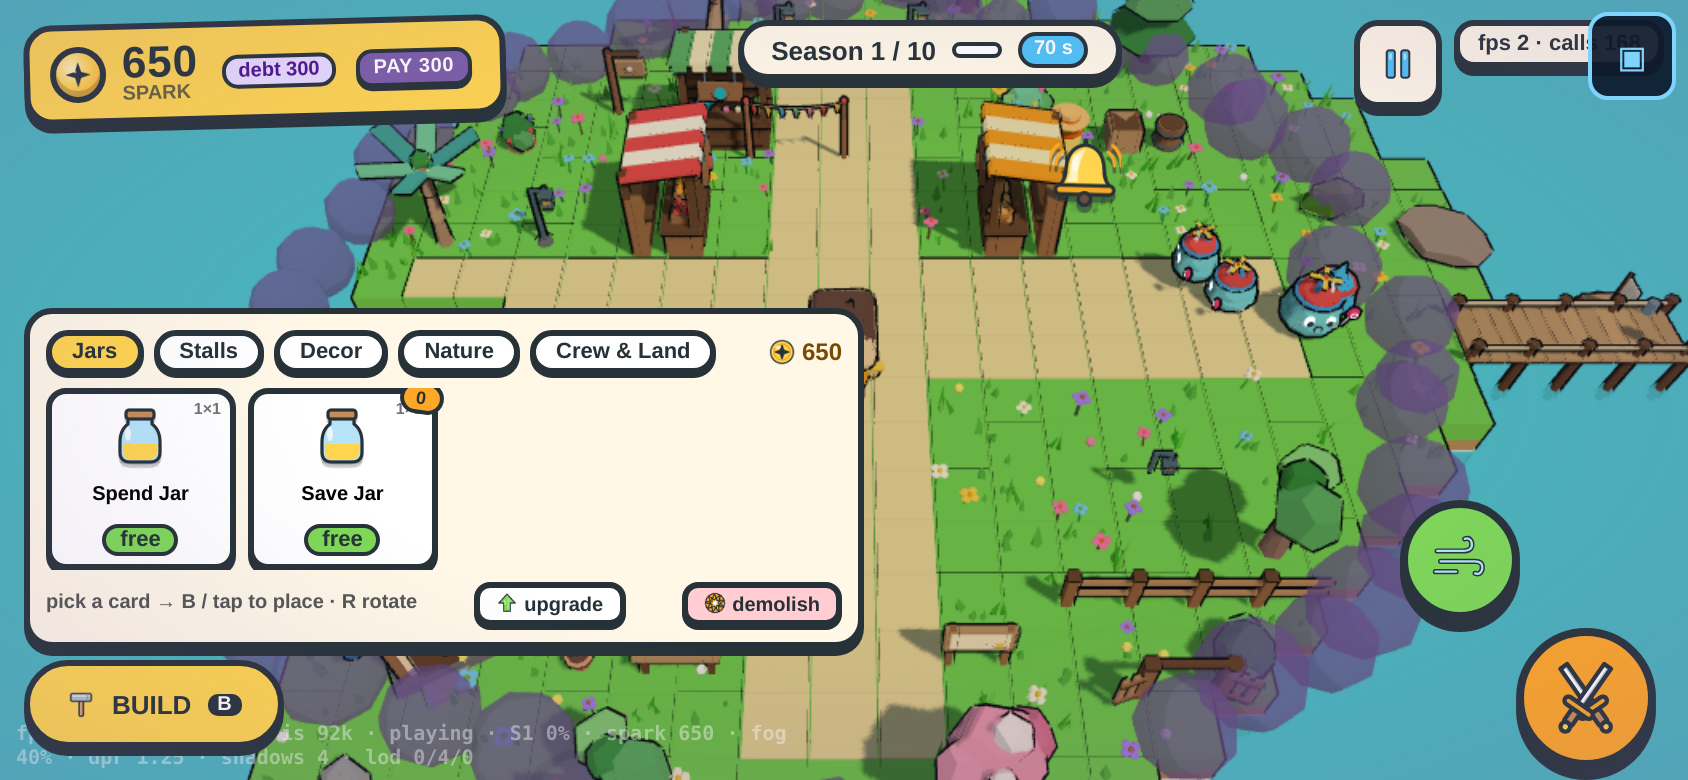
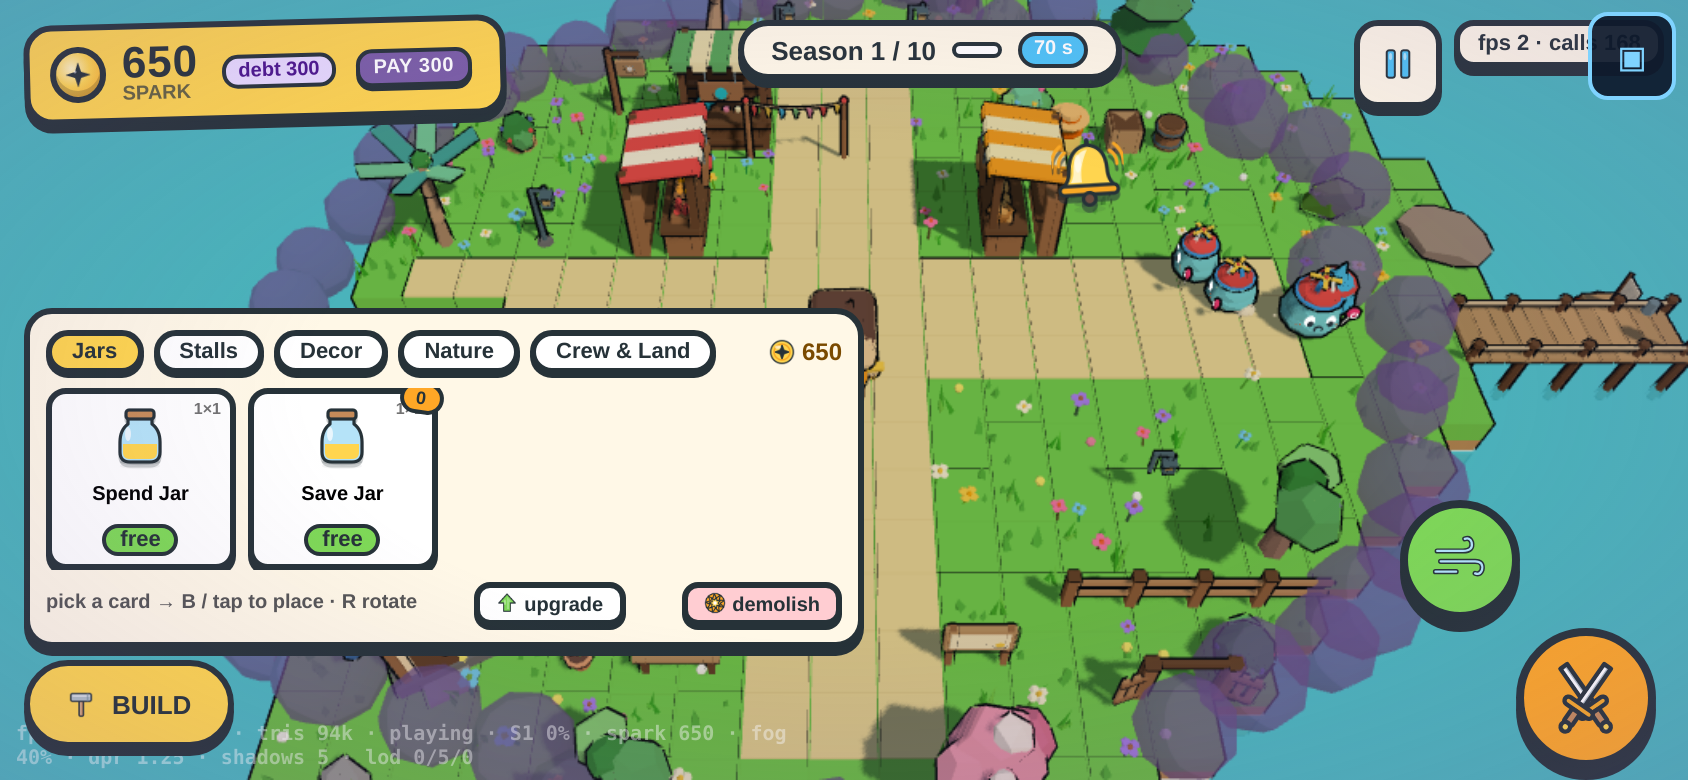
WIP S62: GAME_VERSION S62, README row, HANDOFF S62-A..D, desktop rig play_s62c

diff --git a/LUMEN/game/src/Game.js b/LUMEN/game/src/Game.js
@@ -769,7 +769,7 @@ function reseatHelpers(sb) {
 //   eco:win / eco:lose     → ending (8B finale lines) → story:finale → endless | title
 //   ui:pause {on, by}      pause reasons are OR-ed (menu ∨ dialogue ∨ ledger ∨ title) into game.paused — the only place that touches it.
 // Nothing here edits a system; it only constructs, routes and owns `lg.state`.
-export const GAME_VERSION = 'S61';   // S61 (2026-11-07): Move-step joystick demo fits very small phones (<= 360 px tall, no overlap with the card; cloud badge on <= 300 px), locate('ahead') reads screen-up from the camera (src/systems/aheadPoint.js, rotation-safe), notch-safe left offsets in tutor.css (S61-A/B/E). Previous: S60 (2026-11-07): Move card = drawn JOYSTICK demo on touch (cloud hand drags a simulated stick) / WASD keycaps + hand 6 u ahead on desktop (S60-A); the hand follows moving things LIVE and never points at a stale / invisible Stranger spot (S60-B); Owl opening split into 2 short bubbles (S60-C). Previous: S59 (2026-11-07): cloud tutor (Cloud says hello, drawn face_cloud), persistent blue cards + cloud hand pointer, drawn SKIP, jar reminder (jarRemind.js), storm chip icon (stormmark). Previous: S57 (2026-11-07): FUN_PASS T4 — friendly Stranger species (makeStranger, not Collector-shaped) walks in from the pier, strolls the plaza 25-40 s with a bell marker + edge arrow (ui/stranger.js), a sword never resolves them (whiff + owl 'Not an enemy. Talk to them.'), seasons.json strangers marks (S1 fair, S2 scam, then 1-2 per season, >= 1 in 3 fair), FAIRS deals (eco.offerFair), timeout = no penalty/reward. Gate --strangers 5/5. Previous: S56 (2026-11-06): FUN_PASS T2b + T3 — T2b Powers answer every press (hold = guide card on touch + desktop chips, ≤ 8-word answer pill, cooldown/busy/blocked lines, 6 touch chips with 4 dim, Shield/Stomp drain bar, whenHint in data/tutor.json, gate `--powers` 5/5). T3 Crew do visible jobs — src/systems/crewJobs.js: pier walk-in ≤ 3 s, posts (Owl→Save jar, Tortoise→Protect jar, Fox→pier, Mole→stalls, Bee circles busiest stall, Snail wanders + flowers) that need no stall, idle-work loop, payoff pops (+N / −N / +10% / 🛡 N / ! / 🌱) carrying the real numbers, Ledger Crew line, BFS paths, 1 InstancedMesh, gate `--crew` 8/8. S54 (2026-11-06): FUN_PASS T2 Curiosity guide — curiosity.js registry + curiosityWire.js (approach / linger / tap / HOLD / HUD data-guide), queued blue cards with maxShows + doneOn, pause GUIDE codex, tutorCounts in the save. S53 (2026-11-06): FUN_PASS T1 Jars — data/jars.json + jarUnlocks.js (Spend at start · Save on first till sweep · Protect at the storm warning · Invest after the S2 Ledger), tray lists unlocked jars only (NEW tag + tab pulse), tap a far jar → Pip auto-walks + deposits 10 ✦ (hero.inputOverride, 6 s timeout, cancels on stick/pause/modal), save field jarsUnlocked (additive v4) + legacy migration, verb chain deposit step unlocks Save + 'Build the Save jar' hint, FIX CONTINUE re-registers loaded jars (build:loaded), gate `--jars1` 10/10. S52 (2026-11-05): FUN_PASS T0 Debug panel — lg.debug hooks (installDebugHooks: grant/season/day/speed/stranger/wave/event/hire/clearTutor/resetSave/state/dump, n/a stubs for T1/T4/T7), ?debug=1 → src/debug/panel.js (aside#ll-debug, window.LUMEN_DEBUG), gate `--debug` 17/17. S51 (2026-11-04): phase 48 Hush — toasts/hero bark/touch buttons/pre-placed jars/verb chip deleted, blue once-only tutor cards. S50: phase 47 Measure-fix — telemetry counts dialogue time in modalSeconds (47A, PLAY_BUGS 45B-2), PERF.md 167 calls + ≤ 180 budget (47B, 45B-3). S49 (2026-11-04): phase 46 Quiet — comfort by deletion: verb chain waits for the opening dialogue (46A, PLAY_BUGS 45B-1), ?oldtutorial overlay deleted (46B), ?sliders legacy jars flag deleted + itch/GDD jars text fixed (46C). S48 (2026-11-04): phase 45 Ship v3 closed — itch page + 6 ship shots (45A), real-browser funnel + 13 gates + PLAY_BUGS (45B), final zip + Bible S48 (45C). S47 (2026-11-03): phase 44 closed — readable market: ♥/✓/✗ price bubbles + sign tint + E-on-sign price (44A), want bubbles + noStall leave (44B), season demand HOT/COLD fair× + PREFS× + sign glyph (44C), islands = NO (44D)
+export const GAME_VERSION = 'S62';   // S62 (2026-11-07): placing ANY item (jar, decor, stall) ends the placing mode at once (S62-A, no red 'place another' ghost), tutor card lifts above the placing bar on phones + onBuildOpen card follows build:enter (S62-C), keyboard letters B/R hidden on touch (S62-D). Previous: S61 (2026-11-07): Move-step joystick demo fits very small phones (<= 360 px tall, no overlap with the card; cloud badge on <= 300 px), locate('ahead') reads screen-up from the camera (src/systems/aheadPoint.js, rotation-safe), notch-safe left offsets in tutor.css (S61-A/B/E). Previous: S60 (2026-11-07): Move card = drawn JOYSTICK demo on touch (cloud hand drags a simulated stick) / WASD keycaps + hand 6 u ahead on desktop (S60-A); the hand follows moving things LIVE and never points at a stale / invisible Stranger spot (S60-B); Owl opening split into 2 short bubbles (S60-C). Previous: S59 (2026-11-07): cloud tutor (Cloud says hello, drawn face_cloud), persistent blue cards + cloud hand pointer, drawn SKIP, jar reminder (jarRemind.js), storm chip icon (stormmark). Previous: S57 (2026-11-07): FUN_PASS T4 — friendly Stranger species (makeStranger, not Collector-shaped) walks in from the pier, strolls the plaza 25-40 s with a bell marker + edge arrow (ui/stranger.js), a sword never resolves them (whiff + owl 'Not an enemy. Talk to them.'), seasons.json strangers marks (S1 fair, S2 scam, then 1-2 per season, >= 1 in 3 fair), FAIRS deals (eco.offerFair), timeout = no penalty/reward. Gate --strangers 5/5. Previous: S56 (2026-11-06): FUN_PASS T2b + T3 — T2b Powers answer every press (hold = guide card on touch + desktop chips, ≤ 8-word answer pill, cooldown/busy/blocked lines, 6 touch chips with 4 dim, Shield/Stomp drain bar, whenHint in data/tutor.json, gate `--powers` 5/5). T3 Crew do visible jobs — src/systems/crewJobs.js: pier walk-in ≤ 3 s, posts (Owl→Save jar, Tortoise→Protect jar, Fox→pier, Mole→stalls, Bee circles busiest stall, Snail wanders + flowers) that need no stall, idle-work loop, payoff pops (+N / −N / +10% / 🛡 N / ! / 🌱) carrying the real numbers, Ledger Crew line, BFS paths, 1 InstancedMesh, gate `--crew` 8/8. S54 (2026-11-06): FUN_PASS T2 Curiosity guide — curiosity.js registry + curiosityWire.js (approach / linger / tap / HOLD / HUD data-guide), queued blue cards with maxShows + doneOn, pause GUIDE codex, tutorCounts in the save. S53 (2026-11-06): FUN_PASS T1 Jars — data/jars.json + jarUnlocks.js (Spend at start · Save on first till sweep · Protect at the storm warning · Invest after the S2 Ledger), tray lists unlocked jars only (NEW tag + tab pulse), tap a far jar → Pip auto-walks + deposits 10 ✦ (hero.inputOverride, 6 s timeout, cancels on stick/pause/modal), save field jarsUnlocked (additive v4) + legacy migration, verb chain deposit step unlocks Save + 'Build the Save jar' hint, FIX CONTINUE re-registers loaded jars (build:loaded), gate `--jars1` 10/10. S52 (2026-11-05): FUN_PASS T0 Debug panel — lg.debug hooks (installDebugHooks: grant/season/day/speed/stranger/wave/event/hire/clearTutor/resetSave/state/dump, n/a stubs for T1/T4/T7), ?debug=1 → src/debug/panel.js (aside#ll-debug, window.LUMEN_DEBUG), gate `--debug` 17/17. S51 (2026-11-04): phase 48 Hush — toasts/hero bark/touch buttons/pre-placed jars/verb chip deleted, blue once-only tutor cards. S50: phase 47 Measure-fix — telemetry counts dialogue time in modalSeconds (47A, PLAY_BUGS 45B-2), PERF.md 167 calls + ≤ 180 budget (47B, 45B-3). S49 (2026-11-04): phase 46 Quiet — comfort by deletion: verb chain waits for the opening dialogue (46A, PLAY_BUGS 45B-1), ?oldtutorial overlay deleted (46B), ?sliders legacy jars flag deleted + itch/GDD jars text fixed (46C). S48 (2026-11-04): phase 45 Ship v3 closed — itch page + 6 ship shots (45A), real-browser funnel + 13 gates + PLAY_BUGS (45B), final zip + Bible S48 (45C). S47 (2026-11-03): phase 44 closed — readable market: ♥/✓/✗ price bubbles + sign tint + E-on-sign price (44A), want bubbles + noStall leave (44B), season demand HOT/COLD fair× + PREFS× + sign glyph (44C), islands = NO (44D)
 // S46 (prev):   // S46 (2026-11-03): phase 43 closed — season scripts (data/seasons.json), 5 novelties (storm/night/baron/picky/raidDouble), rotation S7–10 + endless, NEW chip, save v3.
 // S44 (prev):   // S44 (2026-11-01): BUGFIX speed ×2/×3 + Spark Storm "stretched characters" — JellySpring fixed sub-step 1/120 s + clamp, setSquash clamped [0.3, 2.5]; tests/spring.test.mjs. Game_Bible S44.md in LUMEN_extras/
 // S43 history:   // S43 (2026-11-01): 16B P1 — src/combat/Combat.js 3-hit sword combo (slash1 forehand / slash2 backhand / slash3 spin, power 1/1/2) with input buffering + soft lock-on (≤5 u, ±70°), installCombat(sb) · check.mjs --combat. Game_Bible S43.md in LUMEN_extras/

diff --git a/LUMEN/game/docs/HANDOFF_S59.md b/LUMEN/game/docs/HANDOFF_S59.md
@@ -2,8 +2,11 @@
 Grep the ID in code comments (`S62-x`). Keep the game's drawn-icon art style (no font emoji in the game; emoji only in code comments). Phone LANDSCAPE first, desktop second.
 | ID | Ask (user, verbatim intent) | Status |
 |---|---|---|
-| S62-A | "When I place a jar, it keeps appearing that I can place another one without letting me. Make that when the player places an item, it cancels the placing mechanic." Root cause: Game.js only called `build.exit()` after a `stall_*` placement; jars (unique, so the 2nd ghost is permanently red) and decor stayed armed. | IN PROGRESS: Game.js `build:placed` handler now exits placing for ANY item (stall, jar, decor, nature). Regression gate + browser check below |
-| S62-B | Final beginner-friendly screenshot review (phone landscape 844x390 first, desktop second), analyse the screenshot. | open |
+| S62-A | "When I place a jar, it keeps appearing that I can place another one without letting me. Make that when the player places an item, it cancels the placing mechanic." Root cause: Game.js only called `build.exit()` after a `stall_*` placement; jars (unique, so the re-armed ghost was permanently red / 'blocked') and decor stayed armed. | DONE: Game.js `build:placed` handler exits placing for ANY non-silent placement. Gate `node tools/check.mjs --jars1` now 11/11 (new T1.8: jar + decor -> mode idle, no ghost, tray not placing, a 2nd confirm places nothing). Browser rig `node tools/play_s62.mjs [W H]` (844x390 + 568x320): jar and decor both end placing, 0 console errors. NOTE: stalls in the CHECK harness (`sb.keys`) behave as before; BuildSystem alone still stays in place mode (Game.js is the one that exits), see check.mjs line ~673 |
+| S62-B | Final beginner-friendly screenshot review (phone landscape 844x390 first, desktop second). | DONE for phone landscape (shots tools/shots/s62_*, s62b_*): tray Jars tab, placing bar, placed jar read clearly, no overlap with joystick/Dash/Sword, 0 emoji glyphs in tray/placing bar (regex scan), icons are drawn. Desktop 1280x720 NOT re-shot this chat (only touch changes + one desktop-neutral CSS) |
+| S62-C | Found while reviewing S62-A: the blue tutor card 'Tap a stall, then Deploy.' + Cloud sat ON TOP of the placing bar and hid 'cancel' on phones | DONE: ui/build.js toggles `body.ll-placing`, ui/tutor.css lifts `.ll-tutor` above the bar (<=460 px and <=300 px tall); data/tutor.json `onBuildOpen` also follows `build:enter` so the card leaves when the player picks an item. tests/tutor.test.mjs 12/12 |
+| S62-D | Found in review: placing bar showed 'R' and the Build button showed 'B' (keyboard letters) on touch | DONE: `.ll-keyhint` / `.ll-key` hidden under `body.is-touch` (ui/build.css); desktop keeps them. LESSON: a `// comment` appended on the same line as `const okBtn = ...` swallowed it and crashed the whole UI on load (ReferenceError) - the node gates did NOT catch it because domshim ignores nothing here but the edit was made after the last full run; ALWAYS run `node tools/check.mjs` AND one browser rig after editing ui/*.js |
+| next | Ideas / still open | (1) desktop 1280x720 re-shot of the placing bar (S62-B desktop half). (2) the '?debug=1' text bottom-left overlaps the placing bar in the rigs only (rigs use debug=1; hidden for players). (3) 'drag to move' label stays visible after the Move step on phone (low contrast, harmless; could fade after the first stick move). (4) tray hint line ('pick a card') is small on phones. (5) S61-E / S60-E real-device notch + touch-hold still a human step |
 
 # HANDOFF S61 (continuation of S60, 2026-11-07) — read this first
 | ID | Ask | Status |

diff --git a/LUMEN/README.md b/LUMEN/README.md
@@ -22,6 +22,9 @@ LUMEN/
 > Everything from update 17 onward in the old plan (regions/biomes/World v3, 13B, 14) is **stopped**. Next IDs: `40A 40B 41A–41D 42A–42D 43Z 44Z 45Z`
 > (see `LUMEN_extras/README_pipeline.md` "## Next"; `game/tools/next.sh` prints the one to do).
 
+## Placing fix (S62, 2026-11-07) — version shown in the title menu: `S62 · jam build`
+User report: after placing a jar the game kept offering to place another one (red 'blocked' ghost). Now **placing any item (jar, decor, stall) ends placing mode at once** (`src/Game.js` `build:placed` -> `build.exit()`); the blue tutor card no longer covers the placing bar on phones (`body.ll-placing`), and the keyboard letters B / R are hidden on touch. Gate `node tools/check.mjs --jars1` 11/11 (T1.8), rigs `tools/play_s62.mjs`, `tools/play_s62b.mjs`. IDs S62-A..D in `game/docs/HANDOFF_S59.md`.
+
 ## Fun pass T2 — Curiosity guide (S54, 2026-11-06) — version shown in the title menu: `S54 · jam build`
 Third FUN_PASS task (`game/docs/FUN_PASS.md` §4 T2 + §7.A). The tutorial is now a **guide**: `src/systems/curiosity.js` (registry, 5 Hz, pooled) + `curiosityWire.js` (jars, stalls, signs, tills, Collectors, Baron, stranger, crew, pier, zone gates) emit `curious {id, hint, why}` on **approach**, **linger** (≥ 1.2 s, still), **tap** from any distance, and **hold ≥ 350 ms** (`Input.onHold`; card only, no game action). `ui/tutor.js` shows up to `maxShows` (3) per card until its `doneOn` event retires it, queues (max 2) instead of dropping, never during a modal, `tutorCounts` persisted (additive v4 field; old `tutorSeen` arrays migrate). HUD items carry `data-guide`; pause menu has a **GUIDE** codex (`ui/guideCodex.js`, "N / M met"). Real-browser fixes found by playing: a held press was dead because `holdT` never reset; `lg.selectTap` swallowed every real jar tap (a far jar tap now walks + deposits again). Gates: `--curiosity` 9/9 (+ unit `tests/curiosity.test.mjs`), browser rigs `tools/play_t2*.mjs`. Phone check of the codex / HUD taps is still a human step.
 
